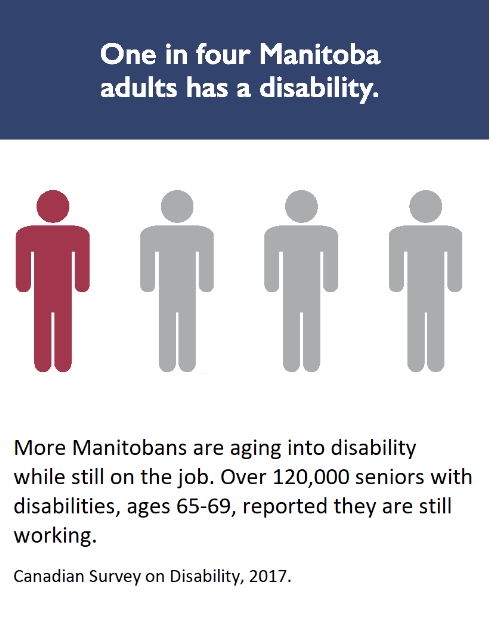
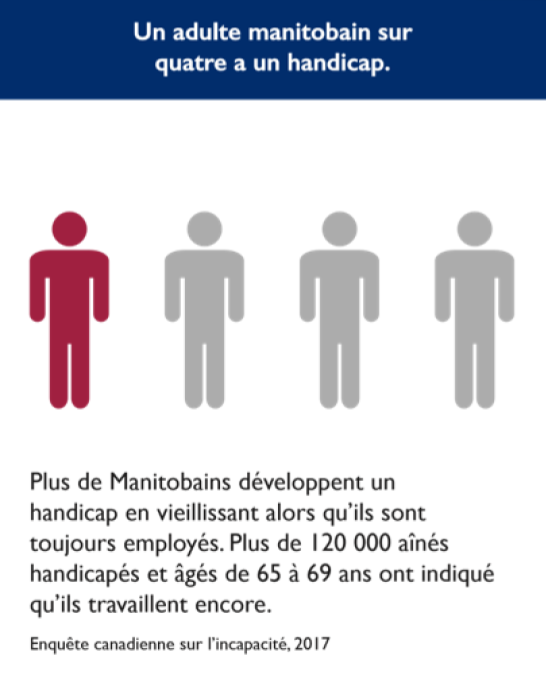
s2-p5-accessibility-benefits-manitobas-workforce translation

diff --git a/accessible-employment/ajax/course/s2-p5-accessibility-benefits-manitobas-workforce.html b/accessible-employment/ajax/course/s2-p5-accessibility-benefits-manitobas-workforce.html
@@ -5,17 +5,19 @@
     wet-boew.github.io/wet-boew/Licence-fr.html -->
 <!-- DataAjaxFragmentStart -->
 <section>
-    <h1>Accessibility Benefits Manitoba’s Workforce</h1>
-    <p>People with disabilities are a significant part of Manitoba’s workforce. A person’s disability can be permanent or temporary, visible or invisible. Manitoba has an aging workforce and the likelihood of disability increases with age. </p>
-    <img class="col-md-8 col-sm-6 mrgn-bttm-lg brdr-lft brdr-tp brdr-rght brdr-bttm nopad" src="./img/course/s2-p5-Infographic-PercentageEmployed.png" alt=" Infographic. Canadians with disabilities want jobs. Bar graph image with caption: Eighty percent of Canadians without disabilities are employed, versus 59% of Canadians with disabilities are employed. Almost half the job-ready Canadians with disabilities have post-secondary education. Statistics Canada, 2016. "
+    <h1>L’accessibilité est avantageuse pour la main-d’œuvre du Manitoba</h1>
+    <p>Les personnes handicapées constituent une partie importante de la main-d’œuvre du Manitoba. Le handicap d’une personne peut être permanent ou temporaire, visible ou invisible. La main-d’œuvre du Manitoba est vieillissante et la probabilité d’un handicap
+        augmente avec l’âge. </p>
+    <img class="col-md-8 col-sm-6 mrgn-bttm-lg brdr-lft brdr-tp brdr-rght brdr-bttm nopad" src="./img/course/s2-p5-Infographic-PercentageEmployed.png" alt="Illustration. Les Canadiens handicapés veulent des emplois. Image du graphique à barres avec légende : Quatre-vingts pour cent des Canadiens non handicapés ont un emploi, contre 59 % des Canadiens handicapés ont un emploi. Presque la moitié des Canadiens handicapés prêts à l’emploi ont une éducation postsecondaire. Statistique Canada, 2016. "
     />
     <br>
-    <p class="clearfix">According to Statistics Canada, Manitobans with disabilities are more likely to be unemployed or under-employed. Manitobans with disabilities want to work, and Manitoba employers want the best employees. </p>
+    <p class="clearfix">Selon Statistique Canada, les personnes handicapées sont plus susceptibles d’être sans emploi ou sous-employées que leurs pairs non handicapés. Les Manitobains handicapés veulent travailler, et les employeurs manitobains veulent les meilleurs employés
+        possibles. </p>
 
-    <h2>Benefits of Accessibility in the Workplace</h2>
-    <p>Workplaces across Manitoba are becoming more accessible for employees with disabilities.Accessibility helps organizations hire, support and keep employees. </p>
-    <p> Accessibility levels the playing field, improves productivity, and makes workplaces healthier and safer for everyone. <br>
-    </p>
+    <h2>Avantages de l’accessibilité sur le lieu de travail</h2>
+    <p>Les lieux de travail du Manitoba deviennent plus accessibles aux employés handicapés. L’accessibilité aide les organisations du Manitoba à recruter des employés, ainsi qu’à soutenir et à garder ces derniers. </p>
+    <p>L’accessibilité met tout le monde sur un pied d’égalité, améliore la productivité et rend les lieux de travail plus sains et sécuritaires pour tous.
+    </p><br>
     <img class="col-md-8 col-sm-6 mrgn-bttm-lg brdr-lft brdr-tp brdr-rght brdr-bttm nopad" src="./img/course/s2-p5-Infographic-OneInFour.png" alt="Infographic. Nearly one in four Manitoba adults have a disability. More Manitobans are aging into disability while still on the job. Over 120,000 Canadian seniors with disabilities, ages 65-69, reported they are still working. Canadian Survey on Disabilities, 2017. "
     />
     <p class="clearfix">&nbsp;</p>
